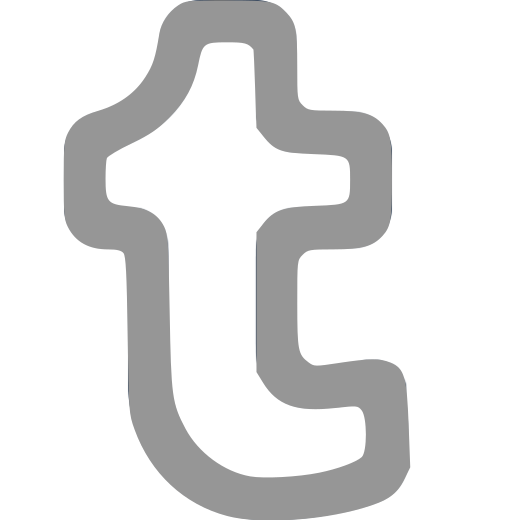
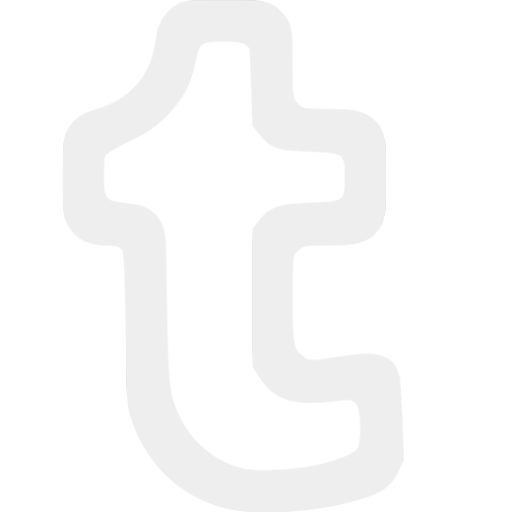
Test image transparency level

Changed region(s): [[0.125, 0.0, 0.8125, 1.0]]

diff --git a/cheshfwh49p3fq/siteStyle.css b/cheshfwh49p3fq/siteStyle.css
@@ -2,17 +2,17 @@
 
 /* Useful "cleanup" parameters to get rid of some old school static website looks */
 ul {
-	width: 100%;
-    margin: 0 auto;
+	width: 100%;   /* Fulll horizontal width unordered list */
+    margin: 0 auto; /* Auto center align list */
 }
 li {
 	list-style: none;
-	text-align: center;
-	float: left;
+	text-align: center; /* align text center horizontally */ 
+	float: left;       /* Lay out list item horizontally */
 }
 a {
 	text-decoration: none;
-	text-align: center;
+	text-align: center; /* align text center horizontally */
 }
 /* END Cleanup parameters */
 

diff --git a/cheshfwh49p3fq/timelineStyle.css b/cheshfwh49p3fq/timelineStyle.css
@@ -27,17 +27,12 @@
 
 /* START Social Media Icons */
 .quick_link_list{
-    padding: 0;
     width: 230px;
     height: 36px;
-    margin: 0 auto;
 }
 .quick_link_list > li {
     position: relative;
     width: 25%;
-}
-.quick_link_list img {
-    opacity: 0.4;
 }
 /* END Social Media Icons */
 
